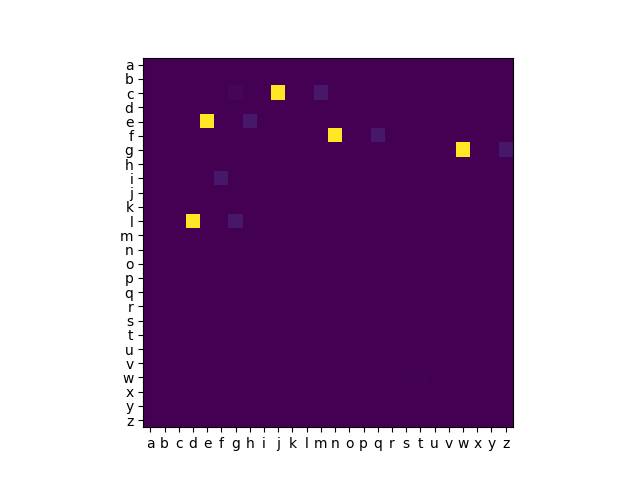
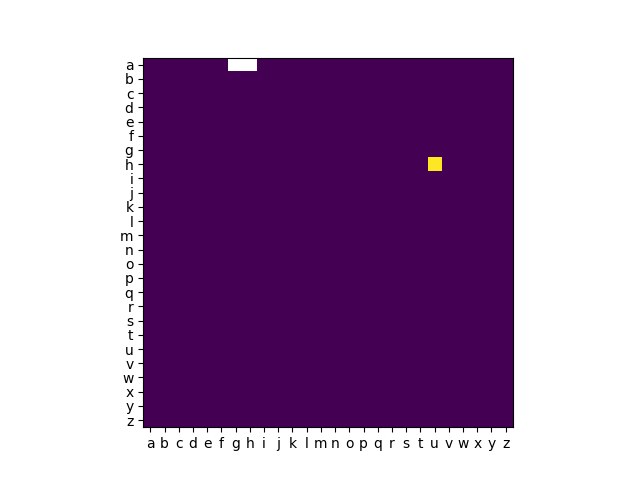
only care about letters and recompute

diff --git a/trainer.py b/trainer.py
@@ -15,10 +15,10 @@ def trainOnFile(filename):
 
     unicodeChars = {}
     occurancesByChar = {}
-    for i in range(0, 1200):
-        # print(chr(i))
-        unicodeChars[chr(i)] = {}
-        occurancesByChar[chr(i)] = 0
+    charsToCareAbout = "abcdefghijklmnopqrstuvwxyz"
+    for c in charsToCareAbout:
+        unicodeChars[c] = {}
+        occurancesByChar[c] = 0
 
     prevChar = False
     totalChars = 0
